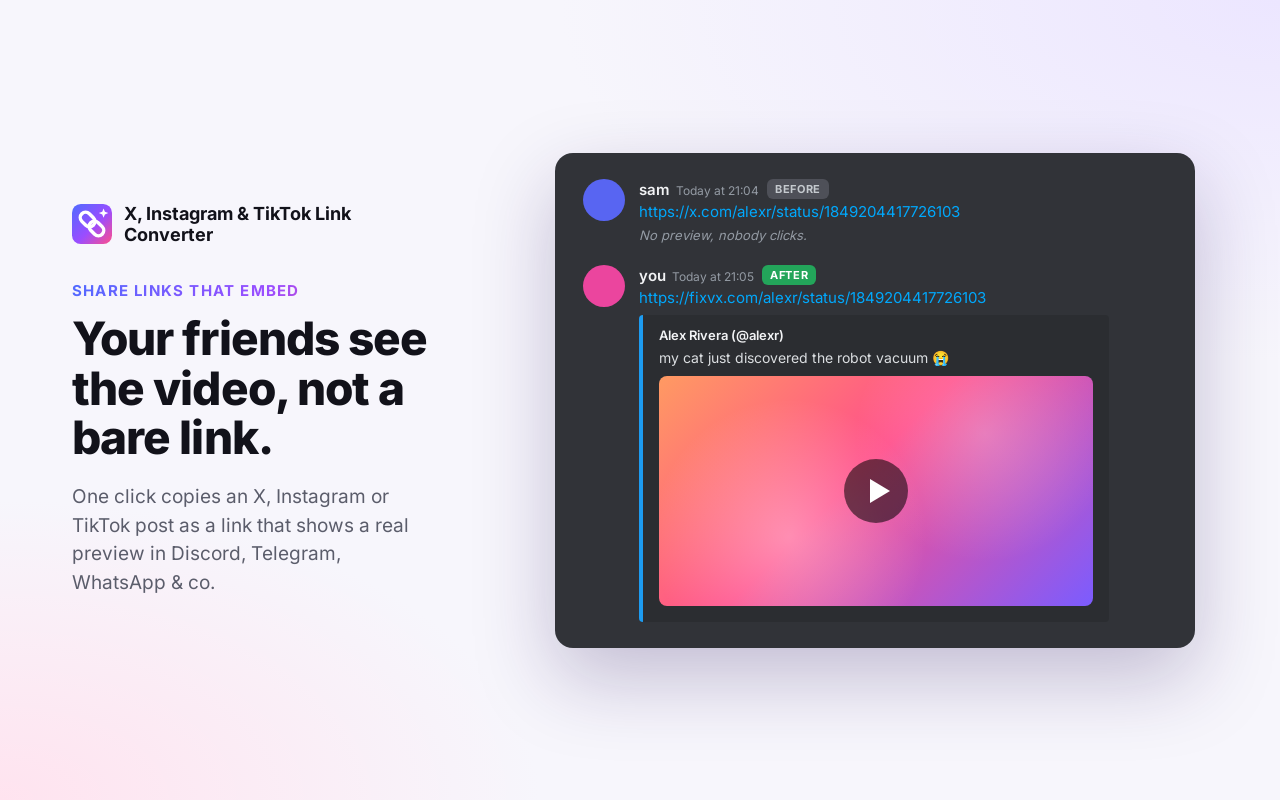
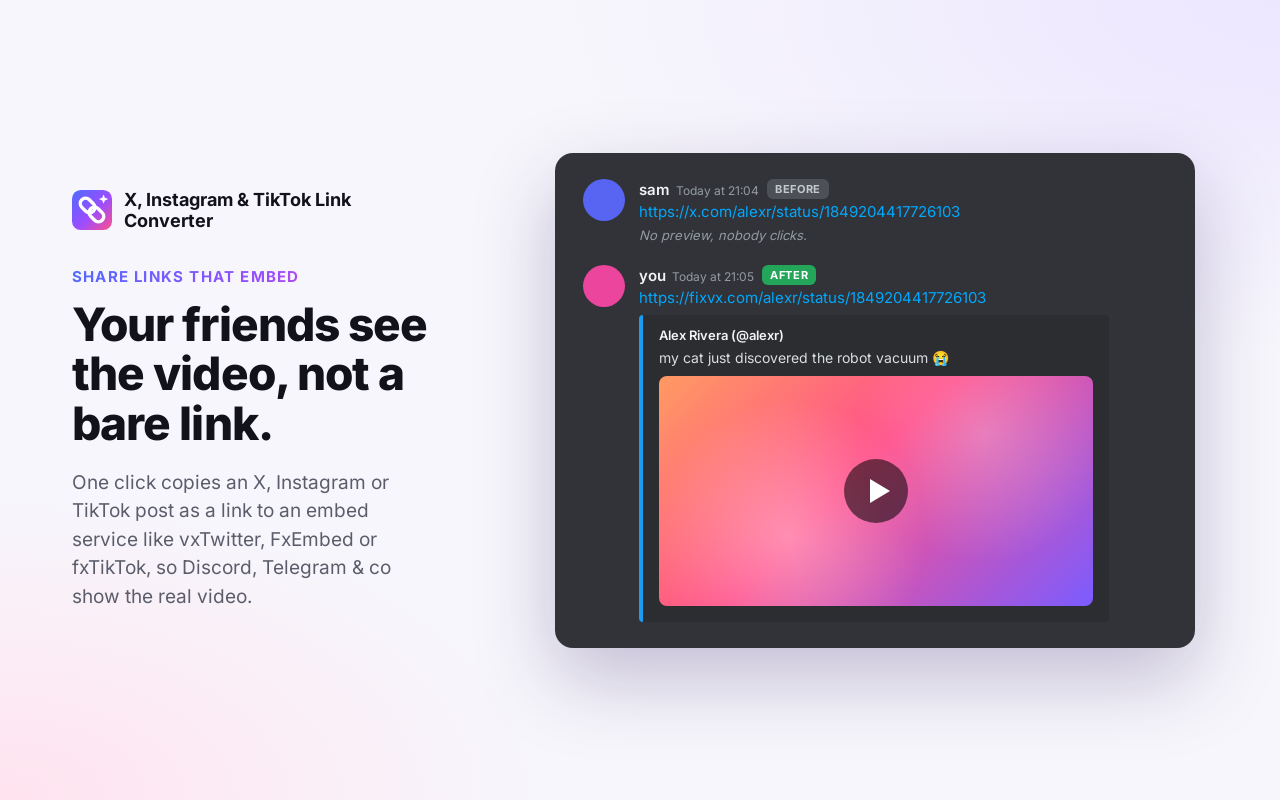
docs: crédite les services d'embed (vxTwitter, FxEmbed, fxTikTok, tiktxk…)
L'extension ne génère aucun aperçu : elle réécrit seulement le lien vers des
services existants. Crédits dans le README, le site, les fiches des stores et
le pied du popup.

Changed region(s): [[0.0312, 0.3438, 0.3438, 0.75], [0.0312, 0.2188, 0.2812, 0.3125]]

diff --git a/site/index.html b/site/index.html
@@ -65,6 +65,14 @@
     .tile h3 { margin: 0 0 6px; font-size: 17px; }
     .tile p { margin: 0; color: var(--muted); font-size: 15px; }
 
+    section.credits { padding: 0 0 80px; }
+    section.credits h2 { font-size: 32px; letter-spacing: -.02em; margin: 8px 0 10px; }
+    section.credits .intro { color: var(--muted); font-size: 17px; max-width: 720px; margin: 0 0 24px; }
+    .credit-grid { display: grid; grid-template-columns: repeat(3, 1fr); gap: 16px; }
+    .credit-grid .tile { text-decoration: none; }
+    .credit-grid .tile:hover { border-color: #9b4dff; }
+    @media (max-width: 820px) { .credit-grid { grid-template-columns: 1fr; } }
+
     footer { border-top: 1px solid var(--line); padding: 28px 0 40px; color: var(--muted); font-size: 14px; }
     footer .wrap { display: flex; flex-wrap: wrap; justify-content: space-between; gap: 12px; }
 
@@ -91,7 +99,7 @@
       <div class="wrap">
         <img class="logo" src="icon.svg" alt="X, Instagram &amp; TikTok Link Converter icon">
         <h1>Share links that <span>embed</span>.</h1>
-        <p>One click copies an X, Instagram or TikTok post as a link that shows the real video or picture in Discord, Telegram, WhatsApp &amp; co.</p>
+        <p>One click copies an X, Instagram or TikTok post as a link to an existing embed service (vxTwitter, FxEmbed, fxTikTok…), so Discord, Telegram, WhatsApp &amp; co show the real video or picture. <a href="#credits">The embeds are theirs.</a></p>
         <div class="ctas">
           <a class="btn primary" href="https://chromewebstore.google.com/detail/ohmjcjchdjkedcmpnefjgffkdolelbih">Add to Chrome</a>
           <a class="btn secondary" href="https://addons.mozilla.org/firefox/addon/x-instagram-link-converter/">Add to Firefox</a>
@@ -145,11 +153,27 @@
         <div class="tile"><h3>Open source</h3><p>Ideas or a broken embed service? <a href="https://github.com/lepetitpaco/X-Instagram-Link-Converter/issues">Open an issue</a>.</p></div>
       </div>
     </section>
+
+    <section class="credits" id="credits">
+      <div class="wrap">
+        <div class="kicker">Credits</div>
+        <h2>The embeds are made by these projects</h2>
+        <p class="intro">This extension does not generate any preview. It only rewrites the link you copy so it points to free embed services built and hosted by others. If you use them a lot, star or sponsor them.</p>
+        <div class="credit-grid">
+          <a class="tile" href="https://github.com/dylanpdx/BetterTwitFix"><h3>vxTwitter</h3><p>fixvx.com, vxtwitter.com · by dylanpdx</p></a>
+          <a class="tile" href="https://github.com/FxEmbed/FxEmbed"><h3>FxEmbed</h3><p>fixupx.com · FxTwitter / FixupX</p></a>
+          <a class="tile" href="https://github.com/okdargy/fxTikTok"><h3>fxTikTok</h3><p>tnktok.com · by okdargy</p></a>
+          <a class="tile" href="https://github.com/Britmoji/tiktxk"><h3>tiktxk</h3><p>tiktxk.com · by Britmoji</p></a>
+          <a class="tile" href="https://kkinstagram.com"><h3>kkinstagram</h3><p>kkinstagram.com · independent service</p></a>
+          <a class="tile" href="https://kktiktok.com"><h3>kktiktok</h3><p>kktiktok.com · independent service</p></a>
+        </div>
+      </div>
+    </section>
   </main>
 
   <footer>
     <div class="wrap">
-      <span>Not affiliated with X Corp., Meta or TikTok. Embed services are run by third parties.</span>
+      <span>Not affiliated with X Corp., Meta, TikTok or the embed services above.</span>
       <a href="https://github.com/lepetitpaco/X-Instagram-Link-Converter">github.com/lepetitpaco/X-Instagram-Link-Converter</a>
     </div>
   </footer>

diff --git a/popup.html b/popup.html
@@ -239,6 +239,17 @@
       color: #555;
     }
 
+    .credits {
+      margin-top: 8px;
+      font-size: 11px;
+      line-height: 1.4;
+      color: #888;
+    }
+
+    .credits a {
+      color: #1d9bf0;
+    }
+
     .history-empty {
       text-align: center;
       color: #999;
@@ -286,6 +297,8 @@
   <div class="divider"></div>
 
   <div id="changelog"></div>
+
+  <div class="credits">Previews are made by third-party services (vxTwitter, FxEmbed, fxTikTok, tiktxk…), not by this extension. <a href="https://github.com/lepetitpaco/X-Instagram-Link-Converter#credits-who-makes-the-embeds" target="_blank" rel="noopener">Credits</a></div>
 
   <div id="status"></div>
 

diff --git a/store/scenes.html b/store/scenes.html
@@ -125,7 +125,7 @@
       <div class="brand"><img src="icon.svg" alt="">X, Instagram &amp; TikTok Link Converter</div>
       <div class="kicker">Share links that embed</div>
       <h1>Your friends see the video, not a bare link.</h1>
-      <p class="lead">One click copies an X, Instagram or TikTok post as a link that shows a real preview in Discord, Telegram, WhatsApp&nbsp;&amp;&nbsp;co.</p>
+      <p class="lead">One click copies an X, Instagram or TikTok post as a link to an embed service like vxTwitter, FxEmbed or fxTikTok, so Discord, Telegram &amp;&nbsp;co show the real video.</p>
     </div>
     <div class="stage">
       <div class="chat">

diff --git a/config.js b/config.js
@@ -44,7 +44,8 @@ const CONFIG = {
       changes: [
         'New icon',
         'Fewer permissions: the extension no longer asks to read your clipboard',
-        'Popup texts in English, and this What\'s new section'
+        'Popup texts in English, and this What\'s new section',
+        'Credits to the embed services that make the previews (vxTwitter, FxEmbed, fxTikTok, tiktxk…)'
       ]
     },
     {

diff --git a/store/LISTING.md b/store/LISTING.md
@@ -26,9 +26,9 @@ Chrome (126 caractères, déjà dans le manifest) :
 Copy X, Instagram and TikTok links that embed well in Discord and chats (fixvx, vxtwitter, kkinstagram, tnktok…) in one click.
 ```
 
-Firefox (229 caractères) :
+Firefox (200 caractères) :
 ```
-Copy X/Twitter, Instagram and TikTok posts as links that show a real video preview in Discord, Telegram or WhatsApp: fixvx, vxtwitter, kkinstagram, tnktok and more, in one click. Add your own services, no tracking.
+One click copies X, Instagram and TikTok posts as links to embed services (vxTwitter, FxEmbed, fxTikTok…) that show a real preview in Discord, Telegram or WhatsApp. Add your own services, no tracking.
 ```
 
 ## Description (Chrome, champ « Description »)
@@ -36,7 +36,7 @@ Copy X/Twitter, Instagram and TikTok posts as links that show a real video previ
 ```
 Share links that actually embed.
 
-Paste an x.com, instagram.com or tiktok.com link in Discord, Telegram or WhatsApp and your friends often get… a bare link. This extension copies the same post as a link from an embed service (fixvx, vxtwitter, kkinstagram, tnktok…), so the chat shows the video or picture right away.
+Paste an x.com, instagram.com or tiktok.com link in Discord, Telegram or WhatsApp and your friends often get… a bare link. This extension copies the same post as a link to an existing embed service (vxTwitter, FxEmbed, fxTikTok…), and that service makes the chat show the video or picture.
 
 ★ ONE CLICK, RIGHT ON THE POST
 • X / Twitter: chips in the action bar of every post: vx (fixvx), upx (fixupx), vxt (vxtwitter), x (clean original link)
@@ -54,7 +54,16 @@ An embed site goes down, a new one appears? Add it yourself in the popup: a shor
 
 Works on x.com, twitter.com, instagram.com and tiktok.com.
 
-This extension is not affiliated with X Corp., Meta or TikTok. fixvx, vxtwitter, kkinstagram, tnktok and the other services are run by third parties.
+★ CREDITS: WHO MAKES THE EMBEDS
+This extension does not generate any preview. It only rewrites the link to point to free embed services built and hosted by others:
+• fixvx.com, vxtwitter.com: vxTwitter (github.com/dylanpdx/BetterTwitFix)
+• fixupx.com: FxEmbed (github.com/FxEmbed/FxEmbed)
+• tnktok.com: fxTikTok (github.com/okdargy/fxTikTok)
+• tiktxk.com: tiktxk (github.com/Britmoji/tiktxk)
+• kkinstagram.com, kktiktok.com: independent services
+If you use them a lot, consider supporting their maintainers.
+
+This extension is not affiliated with these services, nor with X Corp., Meta or TikTok.
 ```
 
 ## Description (Firefox, champ « Description », Markdown limité)
@@ -62,7 +71,7 @@ This extension is not affiliated with X Corp., Meta or TikTok. fixvx, vxtwitter,
 ```
 **Share links that actually embed.**
 
-Paste an x.com, instagram.com or tiktok.com link in Discord, Telegram or WhatsApp and your friends often get… a bare link. This add-on copies the same post as a link from an embed service (fixvx, vxtwitter, kkinstagram, tnktok…), so the chat shows the video or picture right away.
+Paste an x.com, instagram.com or tiktok.com link in Discord, Telegram or WhatsApp and your friends often get… a bare link. This add-on copies the same post as a link to an existing embed service (vxTwitter, FxEmbed, fxTikTok…), and that service makes the chat show the video or picture.
 
 **One click, right on the post**
 
@@ -81,7 +90,17 @@ An embed site goes down, a new one appears? Add it yourself in the popup: a shor
 - Links are converted locally, nothing is sent anywhere
 - Open source: https://github.com/lepetitpaco/X-Instagram-Link-Converter
 
-Not affiliated with X Corp., Meta or TikTok. fixvx, vxtwitter, kkinstagram, tnktok and the other services are run by third parties.
+**Credits: who makes the embeds**
+
+This add-on does not generate any preview. It only rewrites the link to point to free embed services built and hosted by others:
+
+- fixvx.com, vxtwitter.com: [vxTwitter](https://github.com/dylanpdx/BetterTwitFix)
+- fixupx.com: [FxEmbed](https://github.com/FxEmbed/FxEmbed)
+- tnktok.com: [fxTikTok](https://github.com/okdargy/fxTikTok)
+- tiktxk.com: [tiktxk](https://github.com/Britmoji/tiktxk)
+- kkinstagram.com, kktiktok.com: independent services
+
+If you use them a lot, consider supporting their maintainers. This add-on is not affiliated with these services, nor with X Corp., Meta or TikTok.
 ```
 
 ## Notes de version 1.2.1

diff --git a/README.md b/README.md
@@ -2,7 +2,7 @@
 
 <h1 align="center">X, Instagram &amp; TikTok Link Converter</h1>
 
-<p align="center"><b>Share links that embed.</b> One click copies an X, Instagram or TikTok post as a link that shows the real video or picture in Discord, Telegram, WhatsApp &amp; co.</p>
+<p align="center"><b>Share links that embed.</b> One click copies an X, Instagram or TikTok post as a link to an existing embed service (vxTwitter, FxEmbed, fxTikTok…), so Discord, Telegram, WhatsApp &amp; co show the real video or picture. The embeds are made by those services, <a href="#credits-who-makes-the-embeds">credited below</a>.</p>
 
 <p align="center">
   <a href="https://chromewebstore.google.com/detail/ohmjcjchdjkedcmpnefjgffkdolelbih"><b>Add to Chrome</b></a> ·
@@ -39,20 +39,20 @@
 - `www.tiktok.com`
 - `tiktok.com`
 
-## Alternative Frontends
+## Credits: who makes the embeds
 
-### X / Twitter Alternatives
-- **fixvx.com** - Privacy-focused X frontend
-- **fixupx.com** - Alternative X frontend
-- **vxtwitter.com** - Enhanced X experience
+**This extension does not generate any embed or preview.** It only rewrites the domain of the link you copy (`x.com/…` → `fixvx.com/…`) so that it points to an existing embed service. All the work of fetching the post and building the preview is done by these projects, run by their own authors:
 
-### Instagram Alternatives
-- **kkinstagram.com** - Privacy-focused Instagram frontend
+| Service | Project | Maintainers |
+|---|---|---|
+| `fixvx.com`, `vxtwitter.com` | [vxTwitter (BetterTwitFix)](https://github.com/dylanpdx/BetterTwitFix) | dylanpdx and contributors |
+| `fixupx.com` | [FxEmbed (FxTwitter / FixupX)](https://github.com/FxEmbed/FxEmbed) | FxEmbed contributors |
+| `tnktok.com` | [fxTikTok](https://github.com/okdargy/fxTikTok) | okdargy and contributors |
+| `tiktxk.com` | [tiktxk](https://github.com/Britmoji/tiktxk) | Britmoji |
+| `kkinstagram.com` | [kkinstagram.com](https://kkinstagram.com) | independent service, maintainer not published |
+| `kktiktok.com` | [kktiktok.com](https://kktiktok.com) | independent service, maintainer not published |
 
-### TikTok Alternatives
-- **tnktok.com** - fxTikTok, video embeds for Discord, Telegram...
-- **tiktxk.com** - Alternative TikTok embed fixer
-- **kktiktok.com** - Alternative TikTok embed fixer
+These services are free and cost their maintainers hosting money. If you use them a lot, consider starring or sponsoring their projects. This extension is not affiliated with any of them, nor with X Corp., Meta or TikTok.
 
 ## Installation
 
